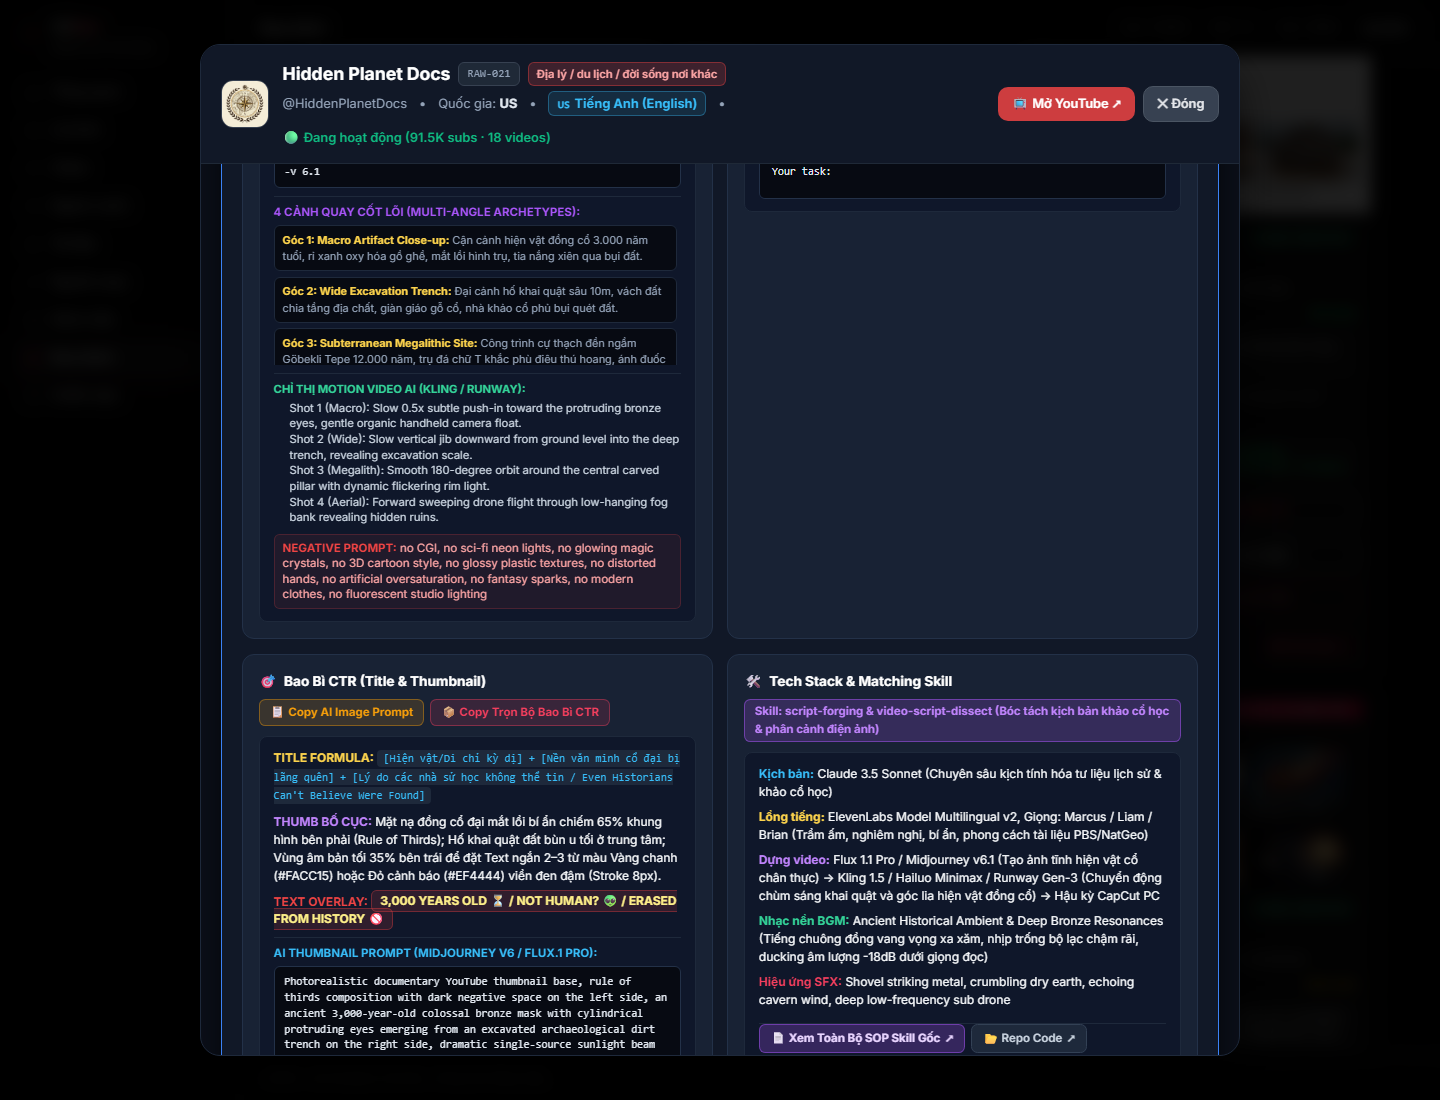
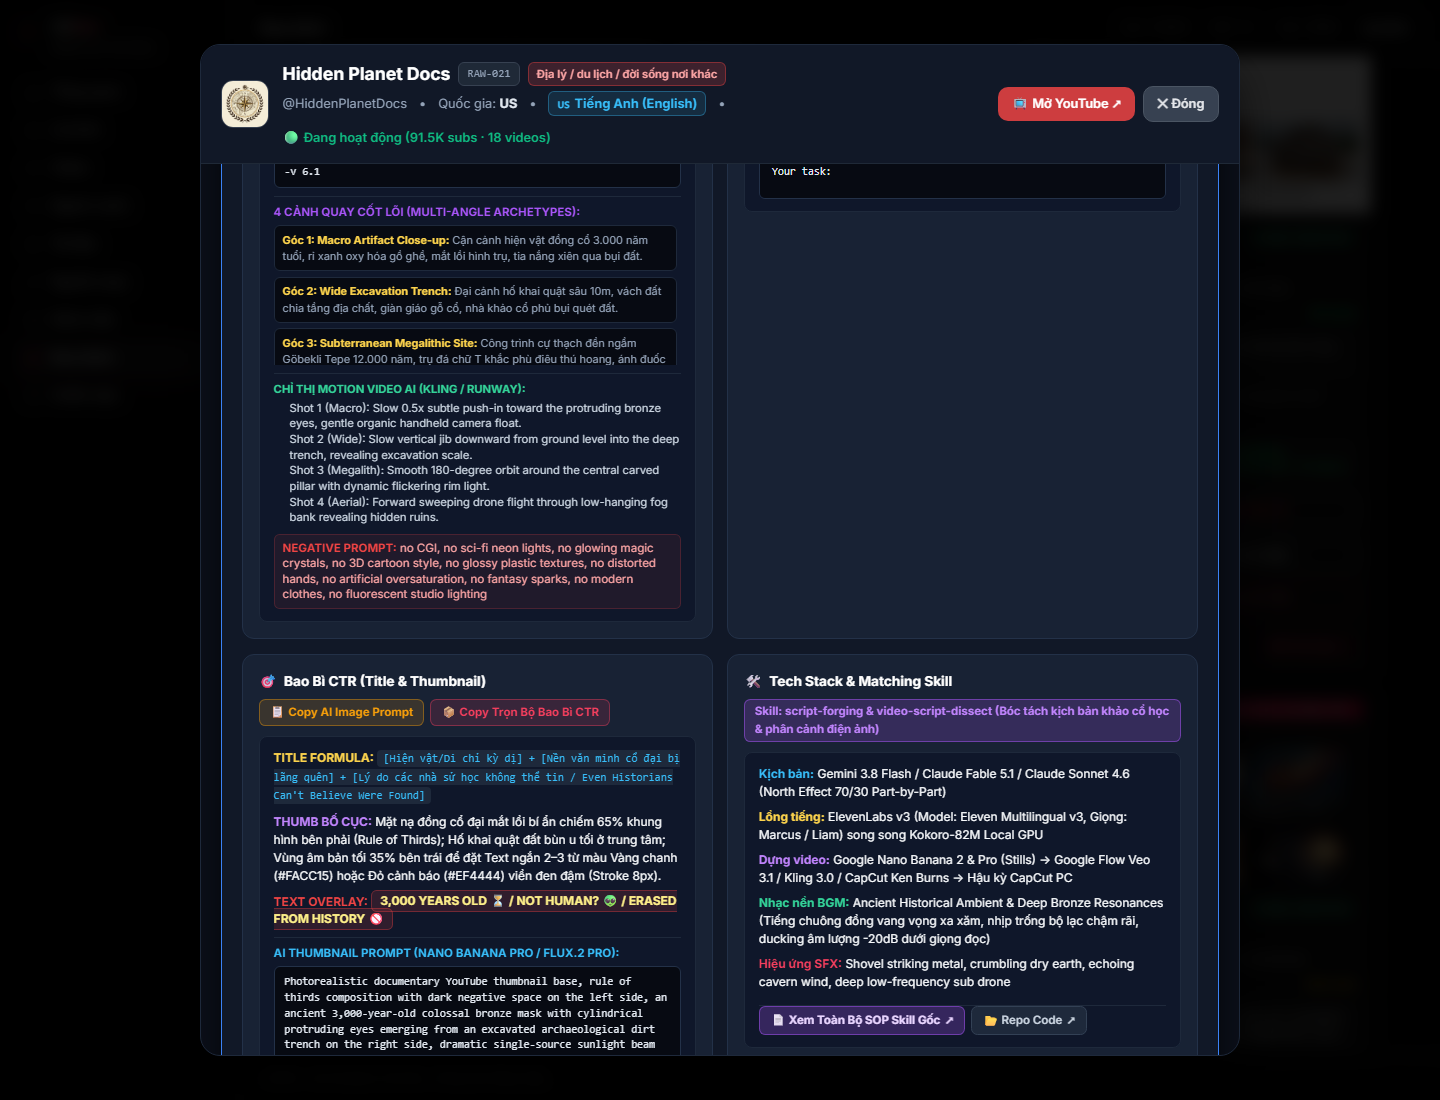
feat(tech-stack): standardize 2-tier architecture (Sweet Spot Gemini 3.8 Flash vs Studio Tier Claude 5/Astra)

Changed region(s): [[0.5, 0.68, 0.8125, 0.9582], [0.3438, 0.8655, 0.4062, 0.8964]]

diff --git a/index.html b/index.html
@@ -2990,7 +2990,7 @@
                       ${pkg.thumbnailText ? `<div><strong style="color:#ef4444;">TEXT OVERLAY:</strong> <span style="background:rgba(239,68,68,0.15); border:1px solid rgba(239,68,68,0.35); padding:0.15rem 0.5rem; border-radius:0.35rem; font-weight:800; color:#fef08a;">${esc(pkg.thumbnailText)}</span></div>` : ''}
                       ${pkg.cleanThumbnailPrompt ? `
                       <div style="border-top:1px solid #1e293b; padding-top:0.4rem;">
-                        <strong style="color:#38bdf8; font-size:0.72rem;">AI THUMBNAIL PROMPT (MIDJOURNEY V6 / FLUX.1 PRO):</strong>
+                        <strong style="color:#38bdf8; font-size:0.72rem;">AI THUMBNAIL PROMPT (NANO BANANA PRO / FLUX.2 PRO):</strong>
                         <div style="margin-top:0.25rem; font-size:0.68rem; color:#e2e8f0; font-family:monospace; background:#070a12; border:1px solid #233148; border-radius:0.375rem; padding:0.45rem 0.6rem; line-height:1.45; word-break:break-word;">
                           ${esc(pkg.cleanThumbnailPrompt)}
                         </div>
@@ -3018,11 +3018,11 @@
                     </div>
 
                     <div style="font-size:0.75rem; color:#cbd5e1; background:#0f172a; padding:0.75rem 0.85rem; border-radius:0.5rem; border:1px solid #1e293b; display:flex; flex-direction:column; gap:0.45rem;">
-                      <div><strong style="color:#38bdf8;">Kịch bản:</strong> <span style="color:#f8fafc;">${esc(ps.scriptTool || 'Claude 3.5 Sonnet / Gemini Ultra')}</span></div>
-                      <div><strong style="color:#fcd34d;">Lồng tiếng:</strong> <span style="color:#f8fafc;">${esc(ps.voiceTool || 'ElevenLabs Multilingual v2')}</span></div>
-                      <div><strong style="color:#c084fc;">Dựng video:</strong> <span style="color:#f8fafc;">${esc(ps.videoTool || 'Flux + Grok / CapCut PC')}</span></div>
-                      <div><strong style="color:#34d399;">Nhạc nền BGM:</strong> <span style="color:#f8fafc;">${esc(ps.bgmSoundtrack || 'Lo-fi Acoustic Comic BGM (Ducking -18dB)')}</span></div>
-                      <div><strong style="color:#f43f5e;">Hiệu ứng SFX:</strong> <span style="color:#f8fafc;">${esc(ps.soundEffects || 'Whoosh, Pop, Cartoon Boing')}</span></div>
+                      <div><strong style="color:#38bdf8;">Kịch bản:</strong> <span style="color:#f8fafc;">${esc(ps.scriptTool || 'Gemini 3.8 Flash / Claude Sonnet 4.6')}</span></div>
+                      <div><strong style="color:#fcd34d;">Lồng tiếng:</strong> <span style="color:#f8fafc;">${esc(ps.voiceTool || 'ElevenLabs v3 / Kokoro-82M')}</span></div>
+                      <div><strong style="color:#c084fc;">Dựng video:</strong> <span style="color:#f8fafc;">${esc(ps.videoTool || 'Nano Banana 2/Pro + Veo 3.1 / CapCut PC')}</span></div>
+                      <div><strong style="color:#34d399;">Nhạc nền BGM:</strong> <span style="color:#f8fafc;">${esc(ps.bgmSoundtrack || 'Ancient Historical Ambient (Ducking -20dB)')}</span></div>
+                      <div><strong style="color:#f43f5e;">Hiệu ứng SFX:</strong> <span style="color:#f8fafc;">${esc(ps.soundEffects || 'Whoosh, Shovel strike, Cavern wind')}</span></div>
                       
                       <!-- Direct Links to Skill and Repo -->
                       <div style="display:flex; align-items:center; gap:0.4rem; margin-top:0.4rem; pt-1; border-top:1px solid #1e293b; flex-wrap:wrap;">
